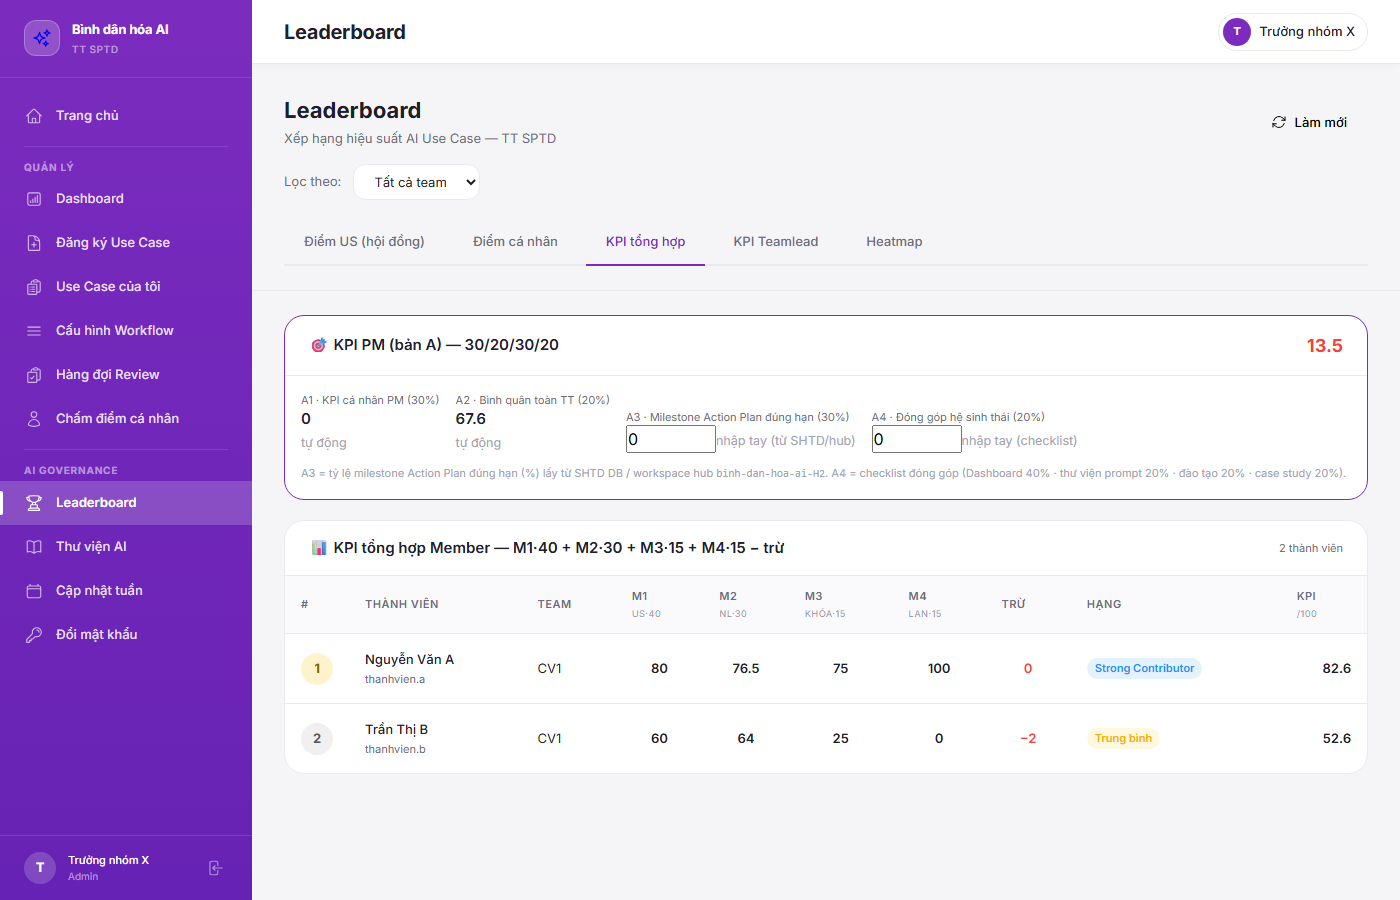
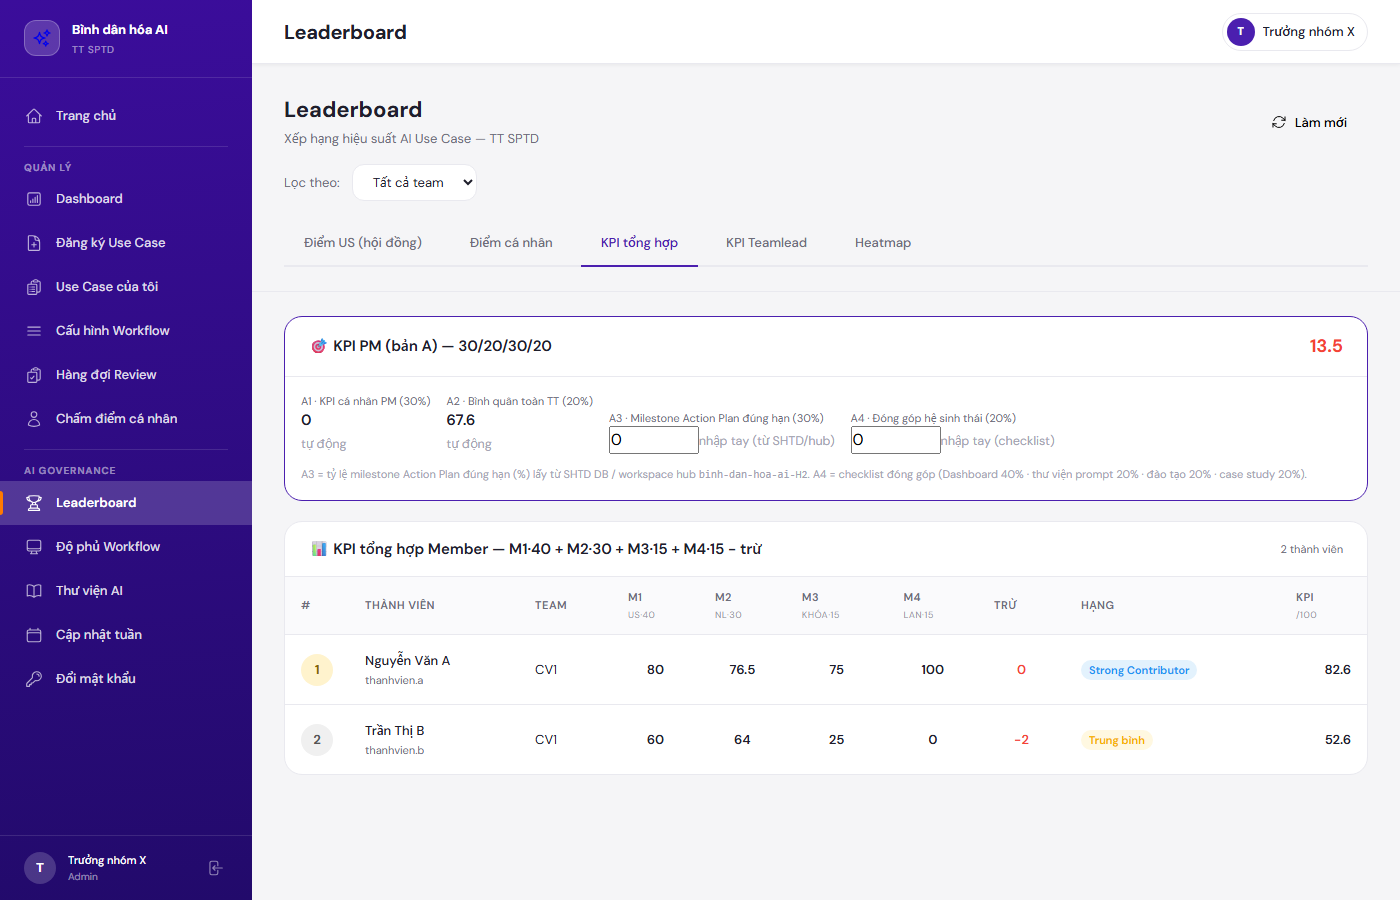
design: chuẩn hóa UIUX theo hệ SHTD (design-system) — pha 1, thuần CSS
- variables.css: palette tím #4B1FAF + accent cam #FF7A00, sidebar gradient SHTD,
  font DM Sans + DM Mono, radius-xl 20→18, shadow bóng mềm, + dark tokens sẵn.
- base.css: @import Inter → DM Sans + DM Mono (không đụng 12 file HTML).
- layout.css: thanh active menu trắng → cam (dấu ấn SHTD).
- Giữ nguyên kiến trúc multi-page + class + logic. Playwright 118/118 pass.
- Pha 2 (chờ): dark-mode toggle, nút primary tím→cam. Nguồn: AIOS design-system.

Claude-Session: https://claude.ai/code/session_018oSv8mQAXo1mCw2C8D9NW6

diff --git a/assets/css/variables.css b/assets/css/variables.css
@@ -1,19 +1,20 @@
 :root {
   /* ══════════════════════════════════════════
-     TPBank BIZ Design System — v3.0
-     Purple-first enterprise banking UI
+     TPBank BIZ Design System — v3.1
+     Chuẩn hóa theo hệ thiết kế SHTD (REF-UIUX-DESIGN-SYSTEM)
+     Lớp BRAND (đổi được): primary tím + accent cam — cùng "gu" SHTD
      ══════════════════════════════════════════ */
 
-  /* ── Brand Purple ── */
-  --color-primary:         #7B2CBF;
-  --color-primary-dark:    #6F2DBD;
-  --color-primary-darker:  #5A1E9A;
-  --color-primary-mid:     #8E44EC;
-  --color-primary-light:   #EDE9FE;
-  --color-primary-surface: #F5F0FF;
+  /* ── Brand Purple (chuẩn SHTD #4B1FAF) ── */
+  --color-primary:         #4B1FAF;
+  --color-primary-dark:    #3A178E;
+  --color-primary-darker:  #2E1270;
+  --color-primary-mid:     #7E57C2;
+  --color-primary-light:   #ECE7FA;
+  --color-primary-surface: #F4F1FC;
 
-  /* ── Sidebar Gradient ── */
-  --sidebar-gradient: linear-gradient(180deg, #7B2CBF 0%, #6622B4 100%);
+  /* ── Sidebar Gradient (chuẩn SHTD) ── */
+  --sidebar-gradient: linear-gradient(175deg, #3B0D9B 0%, #220A6B 100%);
 
   /* ── Semantic Colors ── */
   --color-success:       #4CAF50;
@@ -48,13 +49,14 @@
   --sidebar-item-active:  rgba(255, 255, 255, 0.18);
   --sidebar-border:       rgba(255, 255, 255, 0.12);
 
-  /* ── Accent (Gold / CTA highlight) ── */
-  --color-accent:         #F6B100;
-  --color-accent-dark:    #D4970A;
-  --color-accent-light:   #FFF8E1;
+  /* ── Accent (Cam — hành động chính / CTA highlight, chuẩn SHTD) ── */
+  --color-accent:         #FF7A00;
+  --color-accent-dark:    #E06A00;
+  --color-accent-light:   #FFF1E0;
 
-  /* ── Typography ── */
-  --font-family:           'Inter', -apple-system, BlinkMacSystemFont, 'Segoe UI', Roboto, Arial, sans-serif;
+  /* ── Typography (chuẩn SHTD: DM Sans + DM Mono) ── */
+  --font-family:           'DM Sans', -apple-system, BlinkMacSystemFont, 'Segoe UI', Roboto, Arial, sans-serif;
+  --font-mono:             'DM Mono', ui-monospace, 'SFMono-Regular', monospace;
 
   --text-xs:   0.6875rem;   /* 11px */
   --text-sm:   0.8125rem;   /* 13px */
@@ -93,17 +95,17 @@
   --radius-sm:     6px;
   --radius-md:     12px;   /* inputs, buttons */
   --radius-lg:     16px;
-  --radius-xl:     20px;   /* cards */
+  --radius-xl:     18px;   /* cards (khớp SHTD radius-lg) */
   --radius-2xl:    24px;
   --radius-full:   9999px;
   --border-radius: var(--radius-md); /* legacy compat */
 
-  /* ── Shadows — minimal, enterprise ── */
+  /* ── Shadows — bóng mềm chuẩn SHTD ── */
   --shadow-xs:  0 1px 4px rgba(0, 0, 0, 0.04);
-  --shadow-sm:  0 2px 10px rgba(0, 0, 0, 0.03);
-  --shadow-md:  0 4px 20px rgba(0, 0, 0, 0.05);
-  --shadow-lg:  0 8px 32px rgba(0, 0, 0, 0.08);
-  --shadow-card: 0 2px 10px rgba(0, 0, 0, 0.03);
+  --shadow-sm:  0 1px 4px rgba(0, 0, 0, 0.06);
+  --shadow-md:  0 4px 16px rgba(0, 0, 0, 0.08);
+  --shadow-lg:  0 16px 40px rgba(0, 0, 0, 0.14);
+  --shadow-card: 0 2px 12px rgba(0, 0, 0, 0.05);
   --shadow:     var(--shadow-sm); /* legacy compat */
 
   /* ── Z-index ── */
@@ -140,4 +142,27 @@
   --color-purple-mid:     var(--color-primary-mid);
   --color-purple-light:   var(--color-primary-light);
   --color-purple-surface: var(--color-primary-surface);
+}
+
+/* ══════════════════════════════════════════
+   DARK MODE — token nền sẵn sàng (chuẩn SHTD)
+   Kích hoạt: đặt <html data-theme="dark"> + nút toggle (pha sau).
+   Chỉ có hiệu lực khi data-theme="dark" — không ảnh hưởng light hiện tại.
+   ══════════════════════════════════════════ */
+[data-theme="dark"] {
+  --color-bg:             #0D1117;
+  --color-bg-alt:         #12161F;
+  --color-surface:        #161B22;
+  --color-border:         #2D3748;
+  --color-overlay:        rgba(255,255,255,0.04);
+  --color-text:           #E2E8F0;
+  --color-text-secondary: #94A3B8;
+  --color-text-muted:     #64748B;
+  --color-primary-surface: rgba(75,31,175,0.16);
+  --color-primary-light:   rgba(75,31,175,0.24);
+  --sidebar-gradient:     linear-gradient(175deg, #1E0D5C 0%, #0D0729 100%);
+  --shadow-sm:  0 1px 4px rgba(0,0,0,0.30);
+  --shadow-md:  0 4px 16px rgba(0,0,0,0.40);
+  --shadow-lg:  0 16px 40px rgba(0,0,0,0.50);
+  --shadow-card: 0 2px 12px rgba(0,0,0,0.35);
 }

diff --git a/assets/css/base.css b/assets/css/base.css
@@ -1,5 +1,5 @@
-/* Google Fonts — Inter */
-@import url('https://fonts.googleapis.com/css2?family=Inter:wght@400;500;600;700&display=swap');
+/* Google Fonts — DM Sans + DM Mono (chuẩn SHTD) */
+@import url('https://fonts.googleapis.com/css2?family=DM+Sans:wght@400;500;600;700;800&family=DM+Mono:wght@400;500&display=swap');
 
 *, *::before, *::after {
   box-sizing: border-box;

diff --git a/assets/css/layout.css b/assets/css/layout.css
@@ -142,8 +142,8 @@
   transform: translateY(-50%);
   width: 3px;
   height: 24px;
-  background: white;
-  border-radius: 0 2px 2px 0;
+  background: var(--color-accent);
+  border-radius: 0 3px 3px 0;
 }
 
 .sidebar-nav-icon {

diff --git a/AI_CONTEXT/SESSION_HANDOVER.md b/AI_CONTEXT/SESSION_HANDOVER.md
@@ -1,5 +1,13 @@
 # SESSION HANDOVER
 
+## Session: 2026-09-08 — Chuẩn hóa thiết kế theo hệ SHTD (design-system) — Pha 1 (thuần CSS)
+- **Task completed:** Anh Tuân giao chuẩn hóa UIUX các dự án theo SHTD; AIUS là dự án đầu. Khảo sát AIUS (đã có "TPBank BIZ DS v3.0", token-hóa, multi-page) → **lệch** SHTD (tím `#7B2CBF`+gold, Inter, không dark). Áp bản sắc SHTD **Trung dung** (thuần CSS, giữ kiến trúc+class+test): palette tím `#4B1FAF`+cam `#FF7A00` · sidebar gradient SHTD · font DM Sans (qua @import) · active bar cam · radius-xl 20→18 · shadow bóng mềm · +dark tokens sẵn (chưa bật).
+- **Files changed:** *(ĐÃ COMMIT+PUSH origin/main phiên này)* `assets/css/variables.css` (palette+sidebar+font+radius+shadow + khối `[data-theme=dark]`) · `assets/css/base.css` (@import Inter→DM Sans+DM Mono) · `assets/css/layout.css` (active bar trắng→cam) · ảnh regenerated `evd/weekly-update/*` + `screenshots/h2/*` (test capture đổi theo design) · 4 `AI_CONTEXT/`.
+- **Decision made:** Chọn **Trung dung** (không tái cấu trúc sang class SHTD — giữ 118 test + 12 trang, rủi ro thấp). Đưa AIUS về **đúng palette SHTD** (không giữ tím/gold cũ) để "cùng một nhà". Bộ design-system hub theo mô hình khung-chung + brand-đổi-được nên AIUS chỉ cần remap `variables.css`. **[TT] duyệt bản sắc qua 2 ảnh** (home + leaderboard). **CỐ Ý hoãn pha 2:** nút primary tím→cam · dark toggle.
+- **Blocker:** **Không.** Thuần FE/CSS — KHÔNG cần redeploy GAS. [TT] hard-refresh để thấy.
+- **Next step:** [TT] hard-refresh production (`https://tuanttstb-debug.github.io/ai-usecase-platform/`) nghiệm thu tổng thể. [CC] (pha 2 tùy chọn): dark-mode toggle 12 trang (token sẵn) · đổi nút primary sang cam theo nguyên tắc "1 sắc nhấn cho hành động" nếu [TT] muốn khớp trọn SHTD. Hub AIOS đã cross-ref (CROSS_REPO_LOG điền hash).
+- **Regression risk:** **Thấp** — thuần CSS trình bày, 0 chạm DOM/class/logic/GAS. **Playwright 118/118 pass** (4.9') + ảnh chụp xác nhận thị giác. Rủi ro còn lại chỉ là thẩm mỹ (đã [TT] duyệt). Data-boundary: 0 secret/PII.
+
 ## Session: 2026-08-31 #6 — [TT] redeploy GAS + smoke test OK → 4 CR (#5) LIVE
 - **Task completed:** [TT] xác nhận **redeploy GAS + smoke test production OK** (đúng thứ tự: GAS trước, FE sau) → 4 CR ở phiên #5 nay **hiệu lực trên production**: CR1 Team tự điền · CR2a đăng ký không còn Lĩnh vực (gửi OK, backend hết bắt buộc Business_Category) · CR2b dashboard "Nhóm workflow" · CR2c trang Độ phủ Workflow. Blocker "chờ [TT] redeploy" (coupling CR2a) **đã đóng**.
 - **Files changed:** *(không đổi code — chốt trạng thái)* code ở `cdb44dc` (phiên #5). Chỉ cập nhật AI_CONTEXT.

diff --git a/AI_CONTEXT/TECH_DEBT.md b/AI_CONTEXT/TECH_DEBT.md
@@ -4,6 +4,7 @@ Các vấn đề kỹ thuật đã biết, chưa ưu tiên xử lý ngay.
 
 ---
 
+> **Delta 2026-09-08 (Chuẩn hóa thiết kế theo hệ SHTD — Pha 1):** Không nợ CRITICAL/HIGH mới. Thuần CSS (remap `variables.css` + @import font `base.css` + active bar `layout.css`), giữ nguyên kiến trúc/class/logic; Playwright 118/118 pass. **Nợ nhẹ/tồn (pha 2, tùy chọn, LOW):** ⚪ **TD-DS-01** — nút primary vẫn **tím** (`btn-primary{background:var(--color-primary)}`); hệ SHTD dùng **cam cho hành động chính** → chưa đổi để tránh thay đổi thị giác lớn (đổi = `--color-primary`→`--color-accent` ở `.btn-primary`, cân nhắc với [TT]). ⚪ **TD-DS-02** — **dark-mode CHƯA bật**: token `[data-theme="dark"]` đã có trong `variables.css` nhưng thiếu nút toggle + persist + gắn `data-theme` cho 12 trang HTML (multi-page); làm khi [TT] cần. Nguồn chuẩn: `AIOS/04_Knowledge/references/REF-UIUX-DESIGN-SYSTEM.md` + skill `design-system`. Data-boundary: 0 secret/PII.
 > **Delta 2026-08-31 #2 (Round 2 T2 — chống timeout/mất/trùng khi ghi, TRIỆT ĐỂ):** Fix gốc bằng **idempotency reqId** (Playwright **111/111**, +4 test `10-idempotency`). Gốc: transport timeout MƠ HỒ + create sinh `Record_ID` UUID mới mỗi lần → retry/bấm-lại = trùng dòng; không retry = mất.
 > - **Server:** sheet `REQ_DEDUP` (bền) + CacheService (fast) — `IdempotencyService.gs` (`_idemLookup_`/`_idemRemember_`/prune). `createUseCase_` bọc **script lock** + dedup theo `Req_ID` (ID assign no-lock tránh nested lock); `updateUseCase_` dedup lock-free (idempotent theo Record_ID). `Req_ID` KHÔNG ghi vào MASTER (ngoài HEADERS).
 > - **Client:** `Req_ID` (uuid) **ổn định theo phiên form** (giữ qua retry/bấm-lại, xóa sau success) + **khóa nút Gửi** khi đang bay + **retry an toàn** (`_writeHybrid`, CHỈ GET-JSONP, chỉ khi có Req_ID, lỗi transient) → retry trả record cũ (server dedup), không trùng.

diff --git a/AI_CONTEXT/PROJECT_STATE.md b/AI_CONTEXT/PROJECT_STATE.md
@@ -1,5 +1,15 @@
 # PROJECT STATE
 
+**2026-09-08 — CHUẨN HÓA THIẾT KẾ theo hệ SHTD (skill `design-system` của hub AIOS) — Pha 1. Thuần CSS, KHÔNG đổi kiến trúc/class/logic. [TT] ĐÃ DUYỆT bản sắc.**
+Anh Tuân giao chuẩn hóa UIUX các dự án theo SHTD (sản phẩm hài lòng nhất); AIUS là dự án đầu. AIUS vốn có "TPBank BIZ DS v3.0" riêng (token-hóa, multi-page 12 trang) nhưng **lệch** SHTD (tím `#7B2CBF`+gold, font Inter, không dark). Áp **Trung dung** (rủi ro thấp — vì token-hóa nên chỉ sửa 3 file CSS nền, giữ nguyên kiến trúc+class+118 test):
+- `assets/css/variables.css`: palette → tím SHTD `#4B1FAF` + accent **cam `#FF7A00`** (thay tím nhạt + gold); sidebar gradient SHTD `linear-gradient(175deg,#3B0D9B,#220A6B)`; `--font-family` → **DM Sans** (+`--font-mono` DM Mono); `--radius-xl` 20→18 (card khớp SHTD radius-lg); shadow → bóng mềm SHTD; **+khối `[data-theme="dark"]`** token dark sẵn (chưa bật — chờ pha 2 toggle).
+- `assets/css/base.css`: `@import` Google Font Inter → **DM Sans + DM Mono** (đổi 1 dòng, KHÔNG đụng 12 file HTML).
+- `assets/css/layout.css`: thanh active menu (`.sidebar-nav-item.is-active::before`) trắng → **cam** (dấu ấn SHTD).
+- **Verify: Playwright 118/118 PASS** (4.9') + ảnh chụp xác nhận đúng "gu" (sidebar tím + active bar cam + DM Sans). Thuần trình bày → 0 chạm DOM/logic/GAS.
+- **CỐ Ý chưa làm (pha 2, chờ [TT] khi cần):** nút primary vẫn **tím** (SHTD dùng cam cho hành động chính — chưa đổi để tránh thay đổi thị giác lớn) · **dark-mode toggle** 12 trang (token đã sẵn, thiếu nút+persist).
+
+---
+
 **2026-08-31 #6 — [TT] REDEPLOY GAS + SMOKE OK → 4 CR (#5) LIVE.** CR1 Team tự điền · CR2a đăng ký không còn Lĩnh vực · CR2b dashboard "Nhóm workflow" · CR2c trang Độ phủ Workflow — đều hiệu lực production. Blocker coupling CR2a đã đóng.
 
 ---

diff --git a/AI_CONTEXT/TODO_NEXT.md b/AI_CONTEXT/TODO_NEXT.md
@@ -4,6 +4,13 @@ Thứ tự ưu tiên cho session tiếp theo.
 
 ---
 
+## 🆕 Chuẩn hóa thiết kế theo hệ SHTD (design-system) — Pha 1 XONG + PUSH (2026-09-08, thuần CSS)
+- [x] `variables.css`: palette tím `#4B1FAF`+cam `#FF7A00` · sidebar gradient SHTD · font DM Sans+DM Mono · radius-xl 20→18 · shadow bóng mềm · +dark tokens sẵn.
+- [x] `base.css`: @import Inter→DM Sans+DM Mono. `layout.css`: active bar trắng→cam.
+- [x] **Playwright 118/118 pass** + ảnh chụp. [TT] duyệt bản sắc → commit+push.
+- [ ] **[TT]** hard-refresh production nghiệm thu tổng thể.
+- [ ] **[CC] Pha 2 (tùy chọn):** dark-mode toggle 12 trang (token sẵn) · đổi nút primary tím→cam (nguyên tắc SHTD "1 sắc nhấn cho hành động") nếu [TT] muốn khớp trọn.
+
 ## 🆕 Bỏ bước duyệt — US nộp xong vào review luôn (2026-08-31 #4)
 - [x] `review-queue.js._load` nạp `listUseCases({limit:0})` + loại draft/rejected (bỏ gate Approved). FE-only.
 - [x] Test `03-review-queue` (+1) + full **112/112**. Backend council không gate status (verify).
